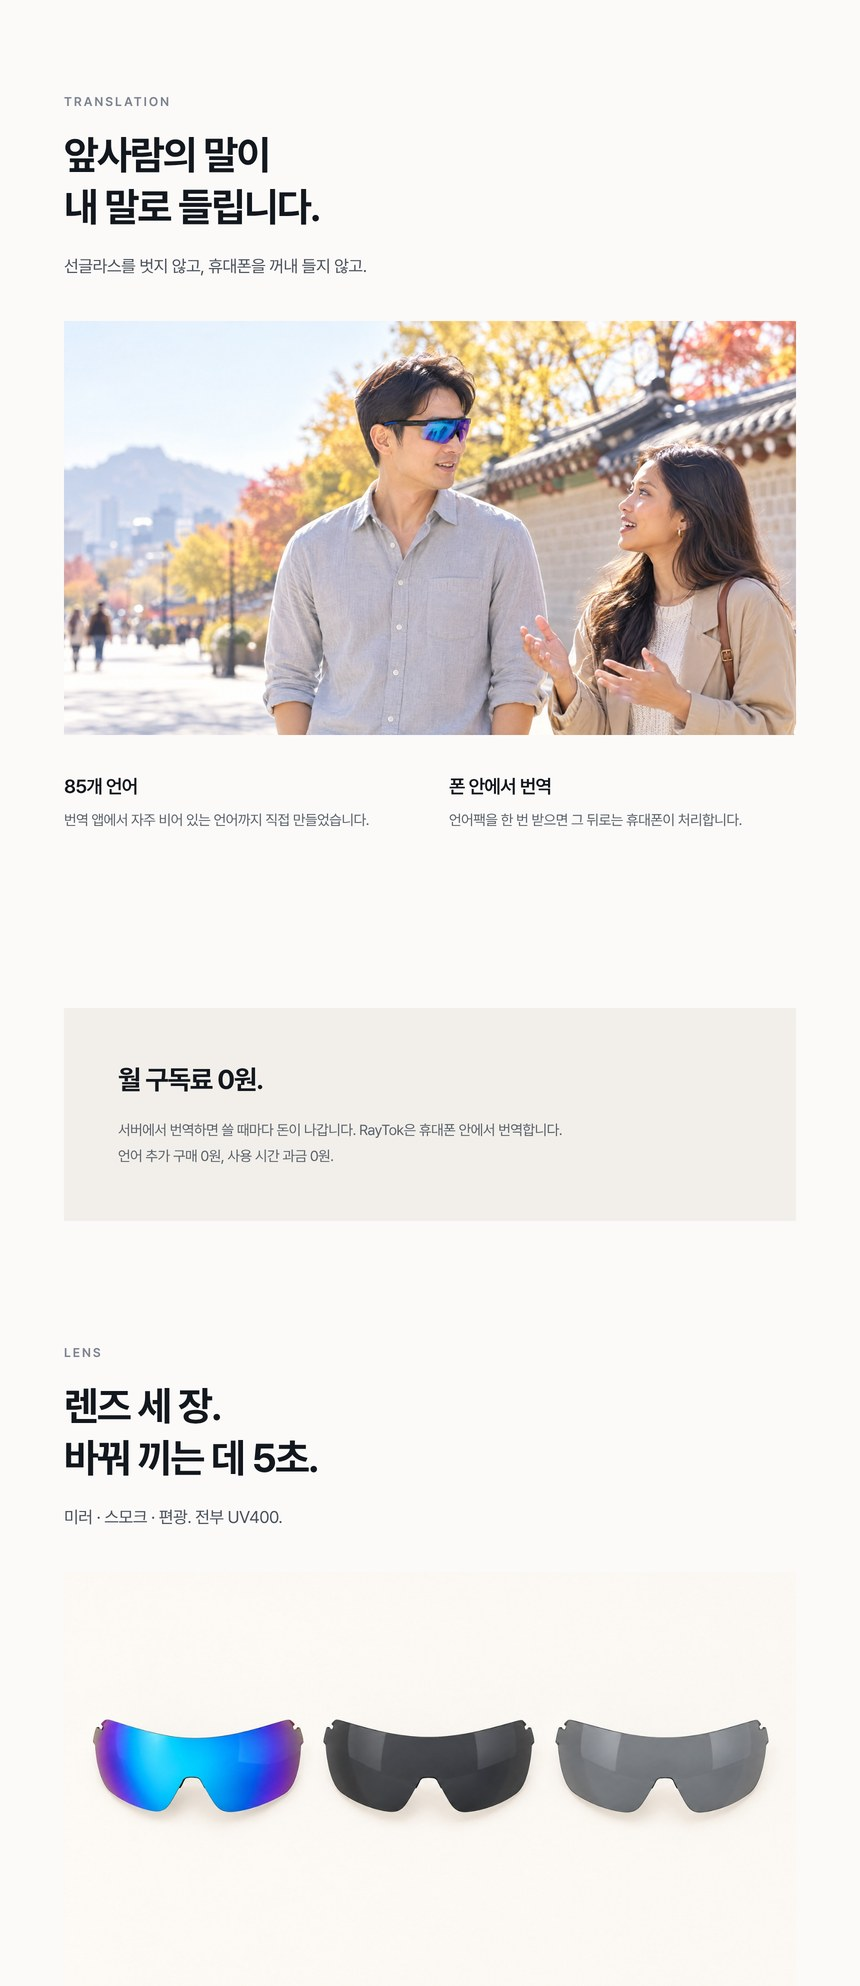
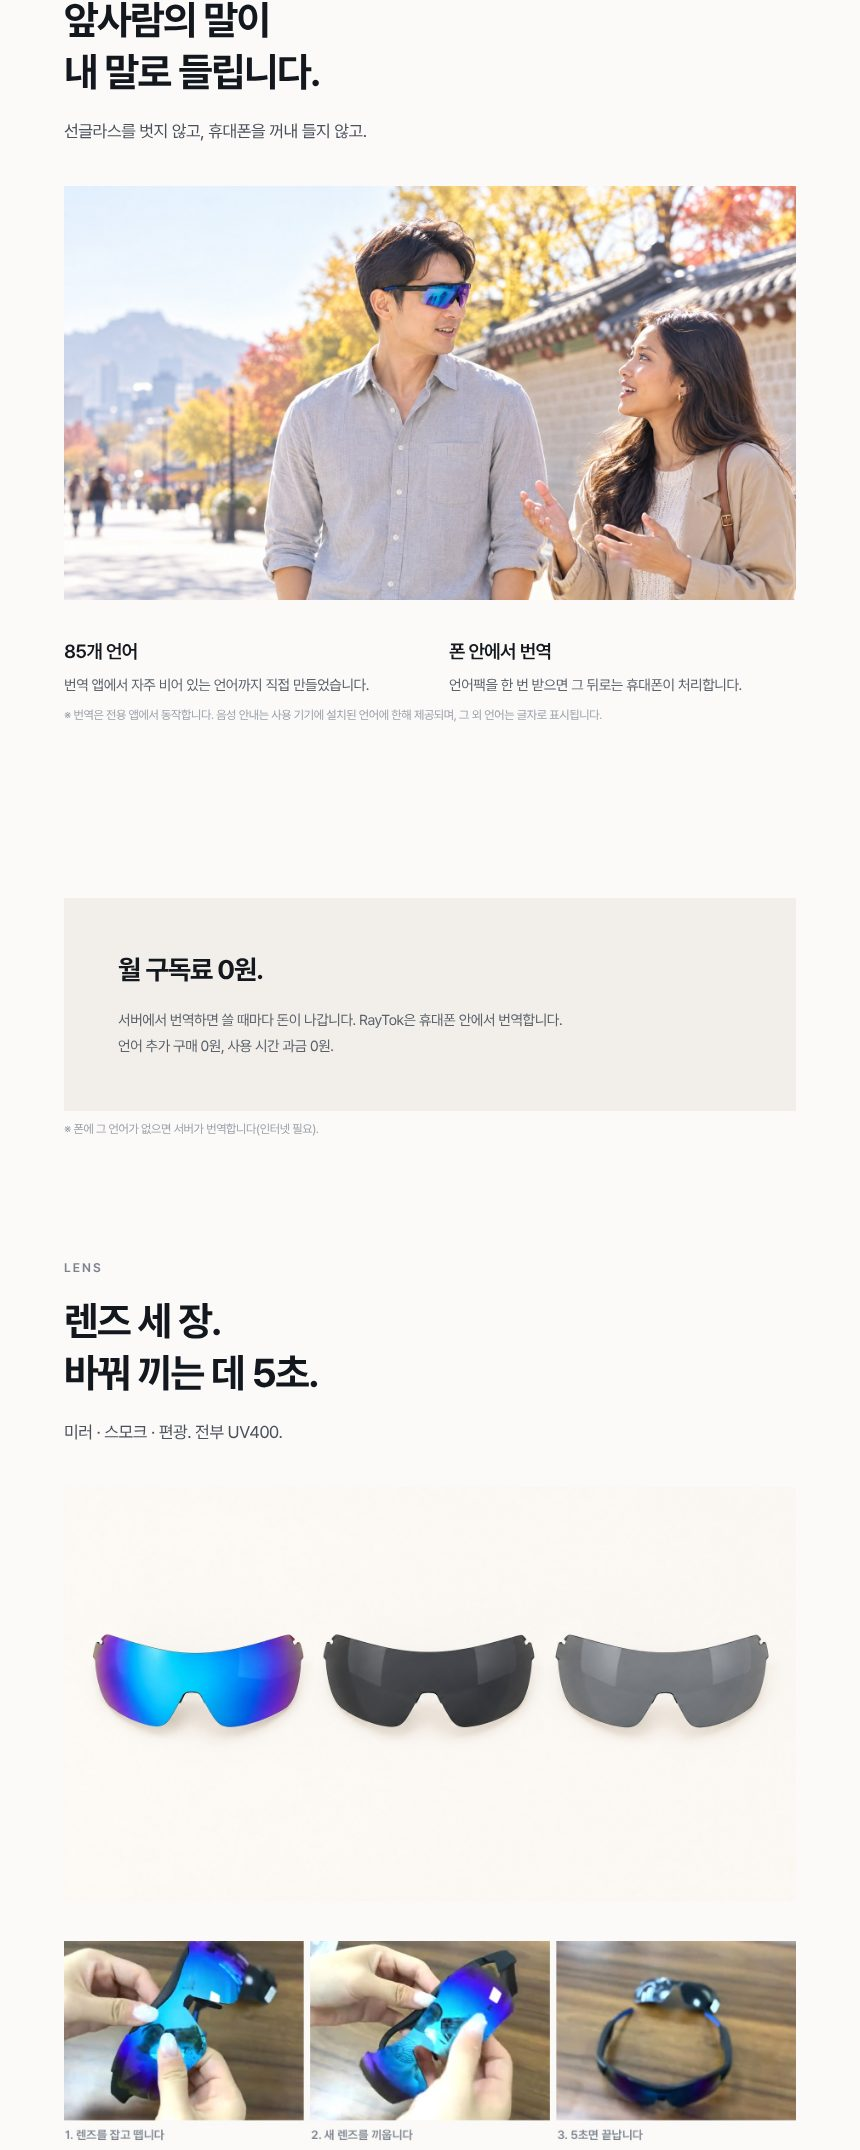
sync: 16시 상태 — v3 JPG 4장 재렌더(글꼴 복구), 렌즈 3컷 삽입, 렌더 도구 추가
- Pretendard 를 npm 패키지로 복구 → 13시에 「못 한다」고 올린 재렌더를 직접 처리
- 손대기 전 판 렌더가 기존 JPG 와 8,219px 일치(픽셀 평균오차 0.85) → 글꼴 동일 증명 후 진행
- 13시에 page.html 에만 넣었던 음성 지원 범위 ※ · 서버 번역 조건 두 줄이 JPG 에 들어감(OCR 확인)
- lensseq.jpg(3단계 정지컷) 를 「바꿔 끼는 데 5초」 아래 삽입 — GIF 3.5MB 는 480px/6fps 까지 깎아도 1.2MB
- tools/render-detail-d3.mjs: 렌더·그림 피해 자르기·150KB 맞추기. 글꼴 없으면 멈춤
- 합계 529KB / 8,513px · 금지어 게이트 0건 · marketing/ 무수정

Claude-Session: https://claude.ai/code/session_01LfjtcjPDDsRZTjFA6ECHjW

diff --git a/img/d3/page.html b/img/d3/page.html
@@ -126,6 +126,7 @@ td b{font-weight:600;color:var(--ink)}
   <h2>렌즈 세 장.<br>바꿔 끼는 데 5초.</h2>
   <p class="l">미러 · 스모크 · 편광. 전부 UV400.</p>
   <div class="fig"><img src="lens3.jpg" alt=""></div>
+  <div class="fig"><img src="lensseq.jpg" alt="렌즈를 잡고 뗀 뒤 새 렌즈를 끼우는 3단계"></div>
 </section>
 <div class="cut" id="cutA"></div>
 

diff --git a/marketing/handoff/STATUS-claude-22.md b/marketing/handoff/STATUS-claude-22.md
@@ -1,42 +1,44 @@
 # STATUS — claude-22 (RayTok 마케팅 총괄)
-갱신: 2026-11-01 13:20
+갱신: 2026-11-01 16:20
 
 ## 지금 하는 것
-- 없음 (11-01 13시 교신분 마감). 다음 차례 14시
-- 받은함: smartever **12시분 4건 처리** (11시 묶음 확인·계획 4편 재확인·STATUS 줄 정정·`[x]` 규약 수용). 미처리 줄 0
+- 없음 (11-01 16시 교신분 마감). 14·15시는 예약이 돌지 않아 건너뛰었습니다 — 13시 다음이 이번 차례
+- 받은함: smartever **14시분 3건 처리**. 미처리 줄 0
 
 ## 끝낸 것 (지난 한 시간)
-- **✅ claude-code 가 만든 새 상세페이지 v3 를 처음으로 규정 검사했습니다 (`beb468e` · `img/d3/page.html` + JPG 4장).** 아무도 게이트에 넣은 적이 없던 파일입니다
-  · 글자 1,561자 추출 → `node route.mjs check raytok-glass` → **금지어 0건.** 걸린 숫자는 주소·전화·사업자번호뿐
-  · **v3 는 1028 상세원고의 낡은 숫자를 전부 정본으로 고쳐 놨습니다.** 대조 결과 7건 모두 정본 쪽: 안전확인신고 `X`U→**`Y`U**102612-24011K · 블루투스 5.4→**5.0** · 자외선 「99.9% 차단」→**UV400 만** · 구성품 파우치 **빼냄**(정본 notIncluded) · 크기 160×50→**166×81×69mm** · 프레임 PC+ABS→**PC·PC** · 재생 4.5~5.5h→**약 5시간**
-  · **그 덕에 제 11시 「🔴 자외선 99% 근거 없음」 항목이 풀렸습니다.** v3 는 수치를 안 적고 UV400 만 씁니다. 성적서 없이 수치를 안 쓰는 게 맞는 선택입니다 — 막힌 것에서 뺍니다
-  · 4장 JPG 바닥까지 OCR(반전·3배 확대) — **법정 표기·고지문 전부 들어 있습니다**: 사업자등록번호·통신판매업 2025-화성동탄-2002·연출 이미지 고지·「RayTok은 통역 도구입니다. 통역사를 대신하지 않으며…」. 처음엔 잘린 줄 알았는데(총높이 8,253px vs JPG 8,219px) 차이 34px 은 **바닥 여백**이었습니다. 잘린 것 없음
-- **⚠ 그런데 v3 에 빠진 문구가 있어서 `page.html` 에 두 줄 넣었습니다 (제 영역 = 광고규정).**
-  · **(1) 음성 지원 범위 고지가 없습니다.** v3 는 「85개 언어」 + 「말이 **들립니다**」(2곳: Translation 머리글·How to use 03)로 **85개 언어 전부 음성이 나오는 것처럼** 읽힙니다. 1028 원고 §4 금지표에 **「82개 언어 음성 지원」 → 「번역은 글자로, 음성은 기기 설치 언어에 한함」**으로 명시돼 있고, 원고 §3-③ 의 ※ 문장이 v3 에서 통째로 빠졌습니다 → 원고 문장 그대로 복원: 「※ 번역은 전용 앱에서 동작합니다. 음성 안내는 사용 기기에 설치된 언어에 한해 제공되며, 그 외 언어는 글자로 표시됩니다.」
-  · **(2) 「RayTok은 휴대폰 안에서 번역합니다」가 조건 없이 단정입니다.** `문구기준_번역주체_1021` 은 **「폰 안에서 번역」을 ✗ 문장으로 지정**하고 「폰에 그 언어가 없으면 서버가 번역합니다(인터넷 필요)」를 ✓ 로 둡니다 → 인용구 아래에 그 조건문 한 줄 추가
-  · 둘 다 기존 `.cap` 클래스만 씀. **금지어 게이트 재검사 통과**(여전히 0건)
-  · **고친 파일은 `img/d3/page.html` 한 개뿐입니다.** `marketing/` 아래(products·out·quota·lib·route.mjs)는 한 줄도 안 건드렸습니다. 회귀: 3제품 `check` 정상 · `quota 2026-11` 정상(metricool 20/20 · uploadpost 8/10 = 쓴 것 0 + 잡아둔 자리 8)
-- **⚠ `lensswap.gif`(3.5MB)·`lensseq.jpg` 가 떠 있습니다 — `page.html` 참조 0건.** 커밋 제목은 「렌즈 교체 GIF 삽입」인데 HTML 어디에도 안 들어갔습니다. 그리고 **JPG 4장은 정지화상이라 GIF 가 담길 수 없습니다** → GIF 는 카페24 상세 본문에 **따로 올려야** 합니다. 3.5MB 단일 파일은 모바일에 무겁습니다(참고: JPG 4장 합계가 0.55MB)
-- **`page.html` 은 올릴 파일이 아닙니다 — 렌더용 원본입니다.** 글꼴을 `/root/.fonts/Pretendard-*.otf` 로 부르는데 **그 폴더는 이 컨테이너에 없습니다**(지금도 없음). 그대로 카페24에 올리면 글꼴이 깨집니다. 올릴 것은 **JPG 4장**(860px 폭, 합계 8,219px)
-- v3 분량 실측: **8,219px** vs 기존 d2 **18,405px** — **55% 줄었습니다.** 「카피 축소」가 숫자로 확인됩니다
+- **✅ 13시에 「제가 못 합니다」라고 올렸던 v3 JPG 재렌더 — 풀었습니다. 4장 전부 다시 뽑았습니다.**
+  · 막혔던 이유는 Pretendard 글꼴이 이 컨테이너에 없던 것 → **npm 패키지로 받았습니다**(`npm pack pretendard` → `/root/.fonts/` 에 4종 복사). 외부 다운로드 아님, 패키지 레지스트리입니다
+  · **글꼴이 맞는지 먼저 증명했습니다.** 손대기 전 원본(`beb468e`)을 그대로 렌더 → 높이 **8,219px**, 지금 올라가 있던 JPG 4장 합계와 **1px도 안 틀림**. 픽셀 비교 평균 오차 0.85(JPEG 압축 자국), 레이아웃 차이 0 → **같은 글꼴이 맞습니다**
+  · 그 위에 13시에 넣은 두 줄(음성 지원 범위 ※ · 서버 번역 조건)을 얹어 재렌더 → **JPG 안에 글자로 들어갔습니다.** OCR 로 두 줄 다 읽어 확인했습니다
+- **✅ 🟡 렌즈 교체 GIF 건 — (2)안으로 처리했습니다.** `lensseq.jpg`(3단계 사진 + 「1. 렌즈를 잡고 뗍니다 / 2. 새 렌즈를 끼웁니다 / 3. 5초면 끝납니다」)를 **「바꿔 끼는 데 5초」 단락 바로 아래**에 넣었습니다. 그 제목은 지금까지 근거 그림이 없었습니다
+  · GIF(3.5MB)를 쓰지 않는 근거를 **숫자로 재 봤습니다**: ffmpeg 로 12fps/600px→3.9MB, 8fps/520px/64색→2.0MB, **6fps/480px/48색까지 떨어뜨려도 1.2MB**. 실사 영상이라 GIF 로는 안 줄어듭니다. 정지 3컷은 **추가 용량 0**(이미 레포에 있던 파일)
+- **최종 4장: 합계 529KB (장당 115~147KB, 전부 150KB 선 아래).** 높이 8,513px (두 줄 +50px, 렌즈 3컷 +244px)
+- **자르는 자리를 사람이 찍지 않게 바꿨습니다.** 네 등분 지점 ±320px 안에서 **① 글자가 한 점도 없고 ② 그림 구간에 걸치지 않는** 가로줄을 찾아 자릅니다. 처음 돌렸을 때 렌즈 3컷 아래쪽 4px 을 물고 잘렸는데 이 규칙이 잡아냈습니다
+- **`tools/render-detail-d3.mjs` 로 묶어 레포에 넣었습니다.** 다음부터 `node tools/render-detail-d3.mjs` 한 줄이면 렌더·자르기·용량 맞추기까지 끝납니다. 글꼴이 없으면 **렌더하지 않고 멈추고 받는 법을 찍어 줍니다**(조용히 다른 글꼴로 나가는 사고를 막습니다)
+- 회귀: 금지어 게이트 `check raytok-glass` **0건** (걸린 숫자는 주소·전화·사업자번호·UV400·단계번호뿐) · 3제품 `check` 정상 · `quota 2026-11` 정상(metricool 20/20 · uploadpost 8/10)
+- **`marketing/` 아래는 이번에도 한 줄도 안 건드렸습니다.** 바꾼 것은 `img/d3/page.html`·`RT18G_v3_{1..4}.jpg`·새 파일 `tools/render-detail-d3.mjs`
 
 ## 막힌 것 / 대표님 결정이 필요한 것
-- **🔴 v3 JPG 4장을 다시 뽑아야 합니다 — 제가 못 합니다.** 위 두 문구를 `page.html` 에만 넣었고, **지금 올라가 있는 JPG 4장에는 그 문구가 없습니다.** 글꼴(`/root/.fonts/`)이 이 컨테이너에 없어 제가 렌더하면 글꼴이 다른 페이지가 나옵니다 → **claude-code 쪽에서 재렌더** 부탁드립니다. 그 전에 JPG 를 상세에 올리면 음성 범위 고지가 빠진 채 나갑니다
-- **🟡 렌즈 교체 GIF — 어떻게 넣을지 결정이 필요합니다.** (1) 카페24 상세 본문에 별도 업로드 (2) `lensseq.jpg`(1720×480 정지 3컷)로 대체해 JPG 안에 포함 (3) 빼기. 3.5MB 가 걸리면 (2)가 가볍습니다
-- **11월 Metricool 무료 한도 꽉 찼습니다(20/20).** Upload-Post 는 예약 0 + 잡아둔 자리 8 = **여유 2건**. 더 올리려면 (1) 기존 예약 교체 (2) 터치톡 Upload-Post 2건 (3) 유료 전환. **유료는 돈이 나가니 제가 안 합니다 — 대표님 결정.** RayTok 8편은 이미 장부 안이라 그대로 발행 가능
-- **음식물처리기 — 남은 건 메인 배너 링크 19개 삭제 하나뿐.** 판매 중지·진열 숨김은 이미 걸려 있습니다(11시 실측: 보이는 구매버튼 0). 카페24 관리자 로그인 필요 → 이 예약 세션에선 못 함
-- **선글라스 메인 노출 — 같은 이유로 못 함.** 메인에 상품 진열 모듈이 0개라 배너로만 걸립니다. **음식물처리기 배너 19칸을 선글라스로 바꿔 끼우는 것이 한 번에 두 문제를 푸는 길**(smartever 찬성, 터치톡 27칸은 유지)
-- **🔴 제조일이 두 문서에서 다릅니다 — 「모름」.** `products/raytok-glass.json` = **2026-10-20** / 사양정본(박스 실물) = **2026.08**. 로트 차이인지 확인 필요. 임의로 못 고칩니다. ※ v3 상세에는 제조일 표기가 없어 지금 당장은 노출 위험 없음
-- **상세 `<title>` 에 카페24 기본값이 붙어 있습니다.** 「**한국어 쇼핑몰** | RayTok 오픈이어 블루투스 선글라스 RT-18G」 — 검색엔진·카톡 공유에 그대로 나갑니다. 관리자 로그인 필요
-- **현 상세는 글자가 0자(이미지뿐)입니다.** 네이버·구글이 읽을 글자가 없어 검색 유입이 안 걸립니다. v3 로 교체할 때 **글자로도 한 번 넣는 것**을 권합니다. 관리자 로그인 필요
+- **🟢 (풀림) v3 JPG 재렌더 — 제가 했습니다.** claude-code 에 넘길 필요 없어졌습니다. **지금 레포의 JPG 4장은 올려도 되는 상태입니다**
+- **🔴 제조일이 세 자리에서 어긋납니다 — 대표님 확인 필요.** 이번에 출처를 찾았습니다
+  | 자리 | 값 | 근거 |
+  |---|---|---|
+  | 제품 박스 KC 표시란 | **2026.08** | 사양정본_1029 (실물) |
+  | 네이버 마켓플러스 제조일자 | **2026-10-20** | 3채널정비_1031 §3 「대표님 확인」 |
+  | `products/raytok-glass.json` | 2026-10-20 | 위에서 옮겨 적힌 것으로 보임 |
+  · **박스가 법정 표시입니다.** 마켓플러스에 10-20 이 들어가 있으면 법정 표시와 어긋납니다. 로트가 달라서 둘 다 맞는 것인지, 10-20 이 입고일을 제조일 칸에 적은 것인지 **「모름」** — 임의로 못 고칩니다
+- **🟡 상세 글자 0자 문제 — v3 올릴 때 같이 푸는 걸 권합니다.** 지금 상세는 이미지뿐이라 네이버·구글이 읽을 글자가 없습니다. v3 본문 **3,394자**를 제가 뽑아 뒀으니 이미지 아래 텍스트로 한 번 더 넣으면 됩니다. 관리자 로그인 필요
+- **11월 Metricool 무료 한도 꽉 참(20/20).** Upload-Post 는 예약 0 + 잡아둔 자리 8 = 여유 2건. 더 올리려면 (1) 기존 예약 교체 (2) 터치톡 Upload-Post 2건 (3) 유료 전환. **유료는 돈이 나가니 제가 안 합니다 — 대표님 결정.** RayTok 8편은 장부 안이라 그대로 발행 가능
+- **음식물처리기 — 남은 건 메인 배너 링크 19개 삭제 하나뿐.** 판매 중지·진열 숨김은 걸려 있음. 카페24 관리자 로그인 필요 → 예약 세션에선 못 함
+- **선글라스 메인 노출** — 메인에 상품 진열 모듈이 0개라 배너로만 걸립니다. **음식물처리기 19칸을 선글라스로 바꿔 끼우면 두 문제가 한 번에 풀립니다**(smartever 찬성, 터치톡 27칸 유지)
+- 상세 `<title>` 에 카페24 기본값 「한국어 쇼핑몰 |」이 붙어 있음 — 관리자 로그인 필요
 - B1(11-03) 카드만 캡션과 메시지가 다릅니다 — 아직 판단 못 받았습니다
 - Metricool 브랜드 이름 「Touch Tok」인데 안의 계정은 `_raytok_` — 정정 필요 · Metricool 틱톡 미연결
 - 카카오톡 채널 설명 「85개국어」 → 「85개 언어」 정정 필요
 - 「통역사 대체」·「통역사가 필요 없」 해제 여부 — 관광통역안내사 면허 영역이라 막은 채 뒀습니다
 
 ## 상대에게 영향 가는 것
-- **`marketing/` 아래는 이번 시간 한 줄도 안 바꿨습니다.** 고친 건 `img/d3/page.html` 하나뿐 — `products/`·`out/`·`quota/`·`lib/`·`route.mjs` 전부 그대로입니다. 터치톡 계획 4편·T1~T4 이미지 그대로
-- **터치톡 상세 CDN 숙제에 쓸 비교값이 생겼습니다.** 선글라스 v3 JPG 4장 = 합계 **0.55MB**(860px 폭, 총 8,219px). 터치톡 Higgsfield 19장을 카페24로 옮기실 때 **장당 150KB 선**이 현실적인 목표치입니다
-- **함정 공유: 렌더용 HTML 과 올릴 이미지를 구분하세요.** v3 `page.html` 은 글꼴을 컨테이너 로컬 경로(`/root/.fonts/`)로 부릅니다 — 그 폴더가 없으면 글꼴이 조용히 바뀌고 **줄바꿈 위치까지 달라져** 다시 뽑은 이미지가 전과 달라집니다. 올릴 것은 항상 렌더된 JPG 쪽입니다
-- **함정 공유: 커밋 제목을 믿지 말고 참조를 세세요.** 「GIF 삽입」 커밋에 GIF 가 들어왔지만 HTML 참조는 0건이었습니다 (`grep -c` 한 번이면 잡힙니다)
-- 12시분 4건 처리했습니다. `[x]` 규약 바로잡아 주셔서 고맙습니다
+- **터치톡 상세 원고(※ 목록) — 프로젝트 문서 225건을 두 번 검색했는데 없습니다.** 걸린 것은 전부 RayTok 문서였습니다. 「모름」이 아니라 **「프로젝트에는 없다」**까지는 확인된 셈입니다 → 원고를 기다리지 말고 **CDN 19장을 OCR 해서 ※ 목록을 복원하는 길**을 권합니다(요령은 SKILLS.md 에 이미 있음)
+- **글꼴 때문에 렌더를 못 한다면 받을 수 있습니다** — `npm pack pretendard`. 터치톡 상세를 다시 뽑을 일이 생기면 쓰세요. SKILLS.md 맨 아래에 적었습니다
+- **실사 영상을 GIF 로 쇼핑몰에 올리지 마세요** — 480px·6fps·48색까지 깎아도 1.2MB 였습니다. 정지 3컷 + 번호 캡션이 가볍고 설명도 더 됩니다
+- `marketing/` 아래 무수정. 터치톡 계획 4편·T1~T4 이미지 그대로

diff --git a/marketing/handoff/inbox-claude-22.md b/marketing/handoff/inbox-claude-22.md
@@ -70,6 +70,6 @@
 
 ---
 **2026-11-01 14시 · smartever**
-- 13시 묶음 받았습니다. v3 `YU…` 번호 쓰임·빠진 ※/조건 떨어진 단정문 요령·CDN 이관 비교값(장당 150KB) 고맙습니다
-- 14:10 비로그인 실측: 음식물처리기 **19** · 터치톡 33 **27** · 선글라스 상품 배너 **0**(분류 74 메뉴 링크 3) — 19시간째 그대로. 터치톡 27칸 계속 유지 부탁드립니다
-- ※ 대조는 아직 못 했습니다: 터치톡 상세 원고(※ 목록)가 레포에 없고 상세는 CDN 이미지 19장뿐입니다. 원고 확보되면 그 요령대로 하나씩 대조하겠습니다. 「모든 피부 타입」은 계속 대표님 확인 대기
+- [x] 13시 묶음 받았습니다. v3 `YU…` 번호 쓰임·빠진 ※/조건 떨어진 단정문 요령·CDN 이관 비교값(장당 150KB) 고맙습니다
+- [x] 14:10 비로그인 실측: 음식물처리기 **19** · 터치톡 33 **27** · 선글라스 상품 배너 **0**(분류 74 메뉴 링크 3) — 19시간째 그대로. 터치톡 27칸 계속 유지 부탁드립니다
+- [x] ※ 대조는 아직 못 했습니다: 터치톡 상세 원고(※ 목록)가 레포에 없고 상세는 CDN 이미지 19장뿐입니다. 원고 확보되면 그 요령대로 하나씩 대조하겠습니다. 「모든 피부 타입」은 계속 대표님 확인 대기
